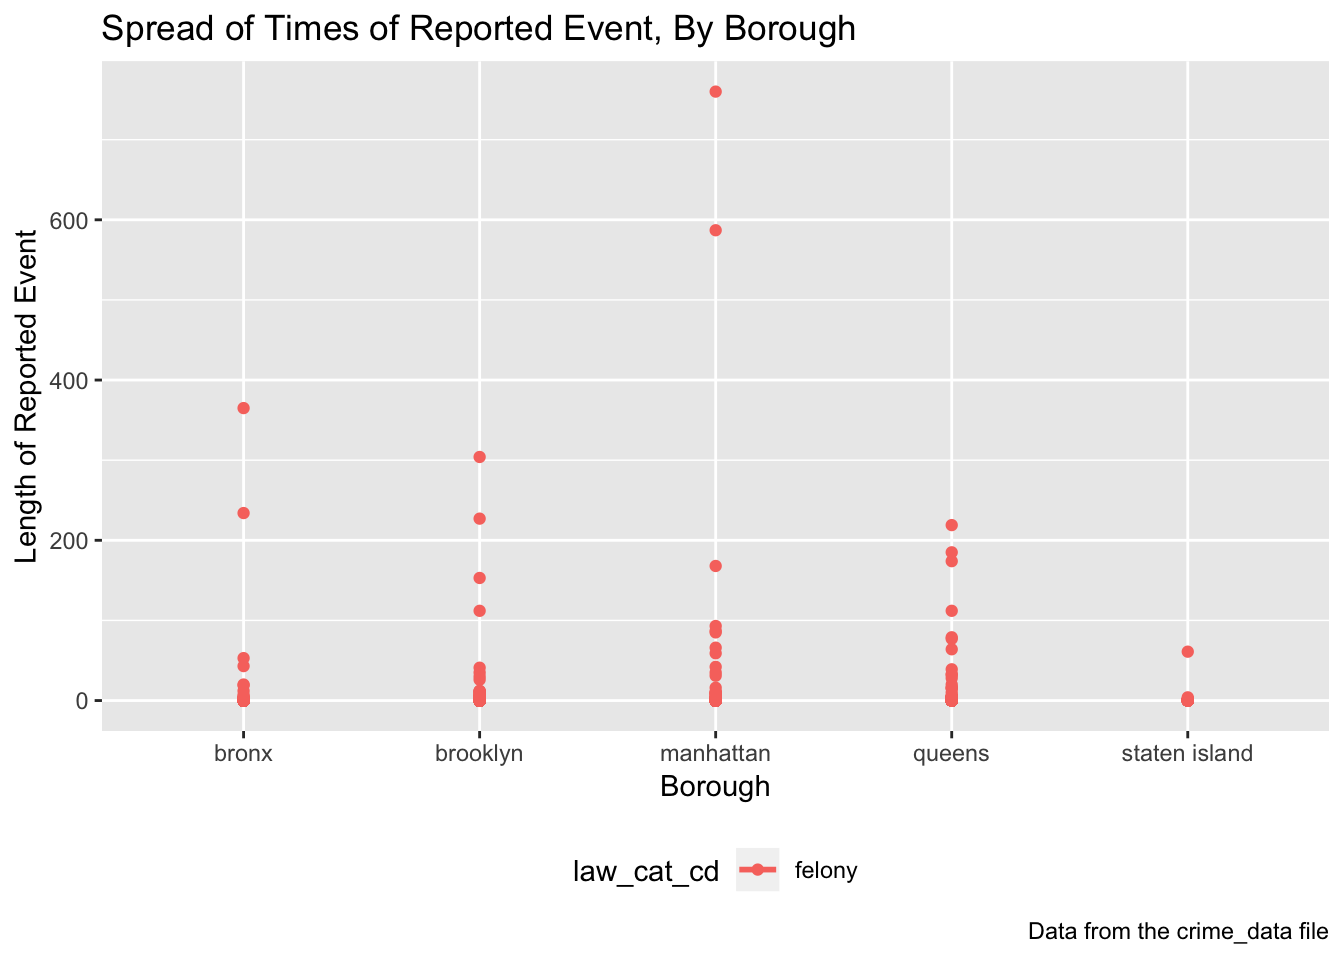
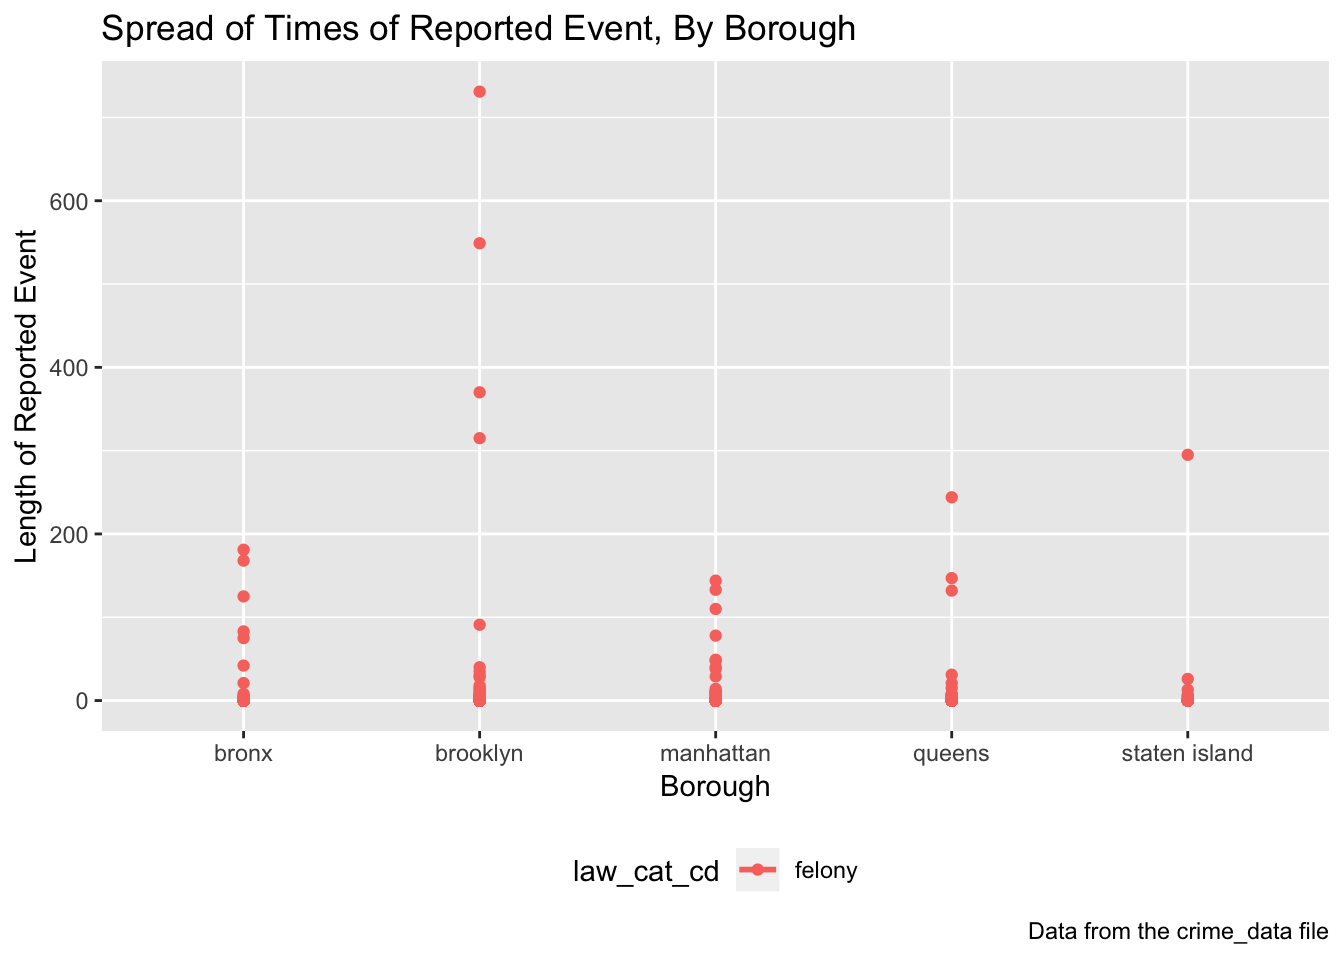
....

diff --git a/code_date_borough.html b/code_date_borough.html
@@ -225,12 +225,12 @@ $(document).ready(function () {
 <p><br> This is the code for the first exploratory analysis in which we examined the length of the reported event/crime by borough.</p>
 <p><br></p>
 <pre class="r"><code>library(tidyverse)</code></pre>
-<pre><code>## ── Attaching packages ────────────── tidyverse 1.2.1 ──</code></pre>
-<pre><code>## ✔ ggplot2 3.1.0     ✔ purrr   0.2.5
-## ✔ tibble  1.4.2     ✔ dplyr   0.7.8
+<pre><code>## ── Attaching packages ───────────────────</code></pre>
+<pre><code>## ✔ ggplot2 3.0.0     ✔ purrr   0.2.5
+## ✔ tibble  1.4.2     ✔ dplyr   0.7.6
 ## ✔ tidyr   0.8.1     ✔ stringr 1.3.1
 ## ✔ readr   1.1.1     ✔ forcats 0.3.0</code></pre>
-<pre><code>## ── Conflicts ───────────────── tidyverse_conflicts() ──
+<pre><code>## ── Conflicts ─── tidyverse_conflicts() ──
 ## ✖ dplyr::filter() masks stats::filter()
 ## ✖ dplyr::lag()    masks stats::lag()</code></pre>
 <pre class="r"><code>devtools::install_github(&quot;thomasp85/patchwork&quot;)</code></pre>
@@ -248,13 +248,20 @@ crime_data = crime_df %&gt;%
   select(cmplnt_fr_dt, cmplnt_to_dt, law_cat_cd, time_diff, time_diff2, boro_nm)
 
 head(crime_data)</code></pre>
-<pre><code>##   cmplnt_fr_dt cmplnt_to_dt law_cat_cd  time_diff time_diff2   boro_nm
-## 1   2016-08-31         &lt;NA&gt;     felony    NA secs         NA manhattan
-## 2   2017-07-31   2017-08-01     felony 86400 secs          1 manhattan
-## 3   2016-10-07         &lt;NA&gt;     felony    NA secs         NA     bronx
-## 4   2015-01-15   2015-01-15     felony     0 secs          0    queens
-## 5   2017-12-10   2017-12-11     felony 86400 secs          1    queens
-## 6   2015-05-20   2015-05-21     felony 86400 secs          1    queens</code></pre>
+<pre><code>##   cmplnt_fr_dt cmplnt_to_dt law_cat_cd   time_diff time_diff2
+## 1   2015-02-24   2015-02-26     felony 172800 secs          2
+## 2   2015-08-15         &lt;NA&gt;     felony     NA secs         NA
+## 3   2017-10-21   2017-10-21     felony      0 secs          0
+## 4   2016-03-15         &lt;NA&gt;     felony     NA secs         NA
+## 5   2014-10-02   2014-10-07     felony 432000 secs          5
+## 6   2015-05-05   2015-05-06     felony  86400 secs          1
+##         boro_nm
+## 1        queens
+## 2     manhattan
+## 3      brooklyn
+## 4         bronx
+## 5     manhattan
+## 6 staten island</code></pre>
 <p><br></p>
 <pre class="r"><code>crime_table = 
   crime_data %&gt;% 
@@ -263,16 +270,16 @@ head(crime_data)</code></pre>
 head(crime_table, 12)</code></pre>
 <pre><code>##  [1] &quot;cmplnt_fr_dt   cmplnt_to_dt   law_cat_cd   time_diff        time_diff2  boro_nm       &quot;
 ##  [2] &quot;-------------  -------------  -----------  --------------  -----------  --------------&quot;
-##  [3] &quot;2016-08-31     NA             felony       NA                       NA  manhattan     &quot;
-##  [4] &quot;2017-07-31     2017-08-01     felony       86400 secs             1.00  manhattan     &quot;
-##  [5] &quot;2016-10-07     NA             felony       NA                       NA  bronx         &quot;
-##  [6] &quot;2015-01-15     2015-01-15     felony       0 secs                 0.00  queens        &quot;
-##  [7] &quot;2017-12-10     2017-12-11     felony       86400 secs             1.00  queens        &quot;
-##  [8] &quot;2015-05-20     2015-05-21     felony       86400 secs             1.00  queens        &quot;
-##  [9] &quot;2016-01-10     2016-01-10     felony       0 secs                 0.00  brooklyn      &quot;
-## [10] &quot;2016-04-16     2016-04-18     felony       172800 secs            2.00  staten island &quot;
-## [11] &quot;2015-01-22     NA             felony       NA                       NA  brooklyn      &quot;
-## [12] &quot;2015-04-12     2015-04-12     felony       0 secs                 0.00  queens        &quot;</code></pre>
+##  [3] &quot;2015-02-24     2015-02-26     felony       172800 secs            2.00  queens        &quot;
+##  [4] &quot;2015-08-15     NA             felony       NA                       NA  manhattan     &quot;
+##  [5] &quot;2017-10-21     2017-10-21     felony       0 secs                 0.00  brooklyn      &quot;
+##  [6] &quot;2016-03-15     NA             felony       NA                       NA  bronx         &quot;
+##  [7] &quot;2014-10-02     2014-10-07     felony       432000 secs            5.00  manhattan     &quot;
+##  [8] &quot;2015-05-05     2015-05-06     felony       86400 secs             1.00  staten island &quot;
+##  [9] &quot;2015-12-29     2015-12-29     felony       0 secs                 0.00  bronx         &quot;
+## [10] &quot;2016-06-24     NA             felony       NA                       NA  queens        &quot;
+## [11] &quot;2017-02-24     2017-02-24     felony       0 secs                 0.00  bronx         &quot;
+## [12] &quot;2015-02-24     2015-02-24     felony       0 secs                 0.00  manhattan     &quot;</code></pre>
 <p><br></p>
 <pre class="r"><code>crime_data2 &lt;- crime_data[complete.cases(crime_data),]
 

diff --git a/date_borough.html b/date_borough.html
@@ -240,13 +240,13 @@ crime_data = crime_df %&gt;%
   select(cmplnt_fr_dt, cmplnt_to_dt, law_cat_cd, time_diff, time_diff2, boro_nm)
 
 head(crime_data)</code></pre>
-<pre><code>##   cmplnt_fr_dt cmplnt_to_dt law_cat_cd time_diff time_diff2   boro_nm
-## 1   2014-08-07   2014-08-07     felony    0 secs          0     bronx
-## 2   2014-08-24   2014-08-24     felony    0 secs          0     bronx
-## 3   2017-07-31         &lt;NA&gt;     felony   NA secs         NA manhattan
-## 4   2015-01-31   2015-01-31     felony    0 secs          0    queens
-## 5   2015-10-25   2015-10-25     felony    0 secs          0  brooklyn
-## 6   2014-04-14   2014-04-14     felony    0 secs          0  brooklyn</code></pre>
+<pre><code>##   cmplnt_fr_dt cmplnt_to_dt law_cat_cd   time_diff time_diff2   boro_nm
+## 1   2014-02-15   2014-02-15     felony      0 secs          0 manhattan
+## 2   2016-04-04   2016-04-04     felony      0 secs          0     bronx
+## 3   2015-12-08   2015-12-08     felony      0 secs          0 manhattan
+## 4   2017-09-16         &lt;NA&gt;     felony     NA secs         NA     bronx
+## 5   2017-08-11   2017-08-20     felony 777600 secs          9 manhattan
+## 6   2014-07-06   2014-07-07     felony  86400 secs          1    queens</code></pre>
 <p>I can look at the data in a table to examine general trends and get a feel of my data.</p>
 <pre class="r"><code>crime_table = 
   crime_data %&gt;% 
@@ -255,16 +255,16 @@ head(crime_data)</code></pre>
 head(crime_table, 12)</code></pre>
 <pre><code>##  [1] &quot;cmplnt_fr_dt   cmplnt_to_dt   law_cat_cd   time_diff        time_diff2  boro_nm       &quot;
 ##  [2] &quot;-------------  -------------  -----------  --------------  -----------  --------------&quot;
-##  [3] &quot;2014-08-07     2014-08-07     felony       0 secs                 0.00  bronx         &quot;
-##  [4] &quot;2014-08-24     2014-08-24     felony       0 secs                 0.00  bronx         &quot;
-##  [5] &quot;2017-07-31     NA             felony       NA                       NA  manhattan     &quot;
-##  [6] &quot;2015-01-31     2015-01-31     felony       0 secs                 0.00  queens        &quot;
-##  [7] &quot;2015-10-25     2015-10-25     felony       0 secs                 0.00  brooklyn      &quot;
-##  [8] &quot;2014-04-14     2014-04-14     felony       0 secs                 0.00  brooklyn      &quot;
-##  [9] &quot;2015-11-28     2015-11-28     felony       0 secs                 0.00  brooklyn      &quot;
-## [10] &quot;2017-03-18     2017-03-18     felony       0 secs                 0.00  queens        &quot;
-## [11] &quot;2017-01-01     2017-01-01     felony       0 secs                 0.00  manhattan     &quot;
-## [12] &quot;2015-05-13     NA             felony       NA                       NA  NA            &quot;</code></pre>
+##  [3] &quot;2014-02-15     2014-02-15     felony       0 secs                 0.00  manhattan     &quot;
+##  [4] &quot;2016-04-04     2016-04-04     felony       0 secs                 0.00  bronx         &quot;
+##  [5] &quot;2015-12-08     2015-12-08     felony       0 secs                 0.00  manhattan     &quot;
+##  [6] &quot;2017-09-16     NA             felony       NA                       NA  bronx         &quot;
+##  [7] &quot;2017-08-11     2017-08-20     felony       777600 secs            9.00  manhattan     &quot;
+##  [8] &quot;2014-07-06     2014-07-07     felony       86400 secs             1.00  queens        &quot;
+##  [9] &quot;2016-12-20     NA             felony       NA                       NA  brooklyn      &quot;
+## [10] &quot;2016-06-20     NA             felony       NA                       NA  brooklyn      &quot;
+## [11] &quot;2016-12-29     2017-01-06     felony       691200 secs            8.00  queens        &quot;
+## [12] &quot;2017-12-02     2017-12-04     felony       172800 secs            2.00  queens        &quot;</code></pre>
 <p>I can also look at whether the length of time for the reported event/crime differs by borough visually.</p>
 <pre class="r"><code>crime_data2 &lt;- crime_data[complete.cases(crime_data),]
 

diff --git a/date_and_borough.html b/date_and_borough.html
@@ -11,7 +11,7 @@
 
 
 
-<title></title>
+<title>date_and_borough.utf8.md</title>
 
 <script src="site_libs/jquery-1.11.3/jquery.min.js"></script>
 <meta name="viewport" content="width=device-width, initial-scale=1" />
@@ -287,10 +287,7 @@ head(crime_table, 12)</code></pre>
 
 crime_graph</code></pre>
 <pre><code>## `geom_smooth()` using method = &#39;loess&#39; and formula &#39;y ~ x&#39;</code></pre>
-<div class="figure">
-<img src="date_and_borough_files/figure-markdown_github/graph_crime_data-1.png" />
-
-</div>
+<p><img src="date_and_borough_files/figure-markdown_github/graph_crime_data-1.png" /></p>
 <p>I can also look at whether the length of time for the reported event/crime differs by borough.</p>
 </div>
 
